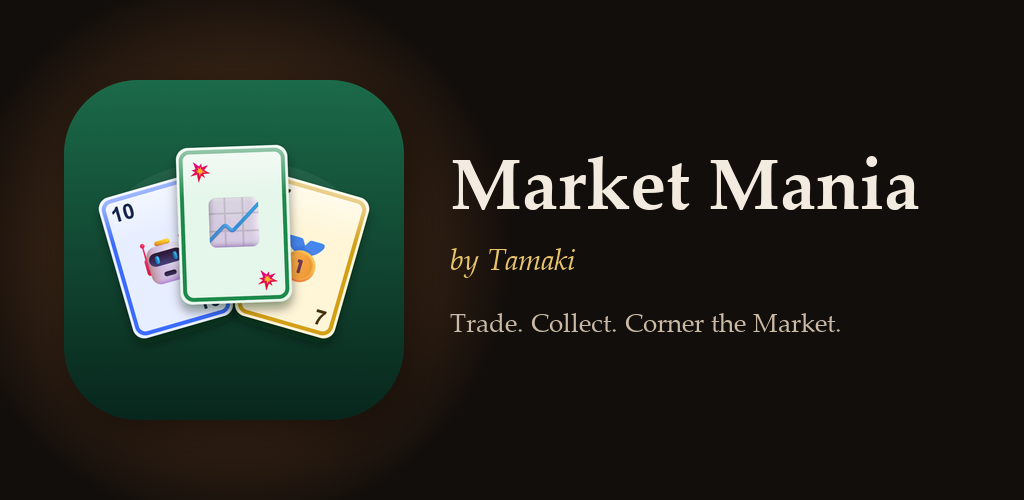
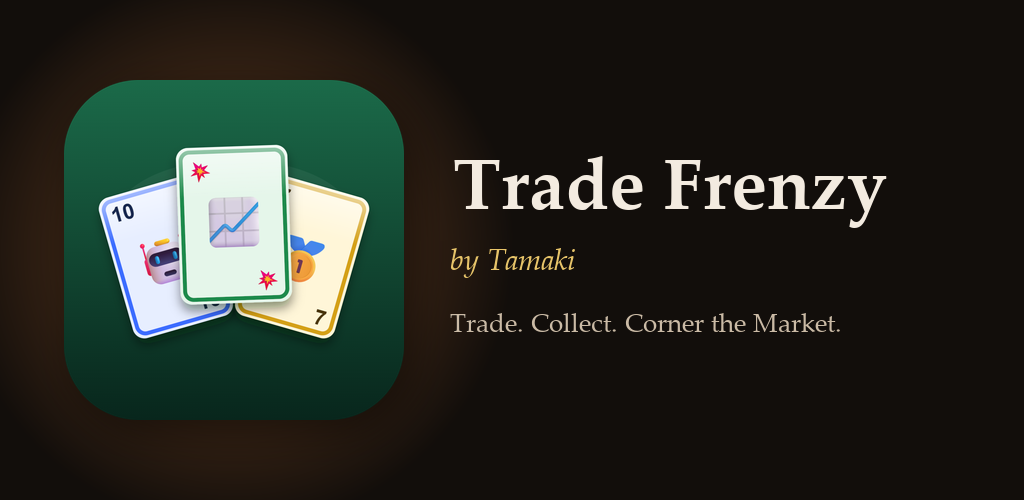
update coming soon

Changed region(s): [[0.4375, 0.3, 0.9062, 0.45]]

diff --git a/coming-soon/index.html b/coming-soon/index.html
@@ -4,7 +4,7 @@
     <meta charset="utf-8" />
     <meta name="viewport" content="width=device-width, initial-scale=1" />
     <title>Coming Soon — Tamaki Technologies</title>
-    <meta name="description" content="Market Mania is coming soon from Tamaki Technologies." />
+    <meta name="description" content="Trade Frenzy is coming soon from Tamaki Technologies." />
     <link rel="icon" href="/logo/tamaki-t.png" type="image/png" />
     <link rel="stylesheet" href="/styles.css" />
   </head>
@@ -28,12 +28,12 @@
       </section>
       <div class="games">
         <article class="game">
-          <img class="banner" src="/graphics/marketboom.png?v=5" alt="Market Mania by Tamaki. Trade. Collect. Corner the Market." />
+          <img class="banner" src="/graphics/marketboom.png?v=6" alt="Trade Frenzy by Tamaki. Trade. Collect. Corner the Market." />
           <div class="game-body">
             <div class="game-copy">
               <img src="/icons/marketboom.svg" alt="" />
               <div>
-                <h2>Market Mania</h2>
+                <h2>Trade Frenzy</h2>
                 <p>Trade. Collect. Corner the Market.</p>
               </div>
             </div>

diff --git a/index.html b/index.html
@@ -93,7 +93,7 @@
           <li>
             <a href="/coming-soon/">
               <img src="/icons/marketboom.svg" alt="" />
-              <span><strong>Market Mania</strong>Trade. Collect. Corner the Market.</span>
+              <span><strong>Trade Frenzy</strong>Trade. Collect. Corner the Market.</span>
             </a>
           </li>
         </ul>
